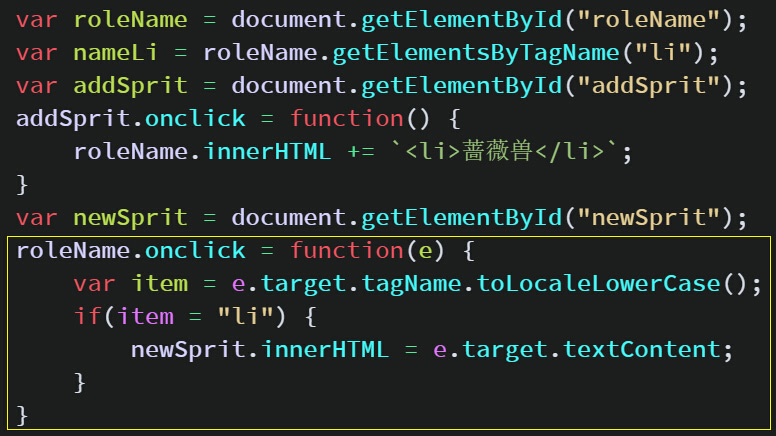
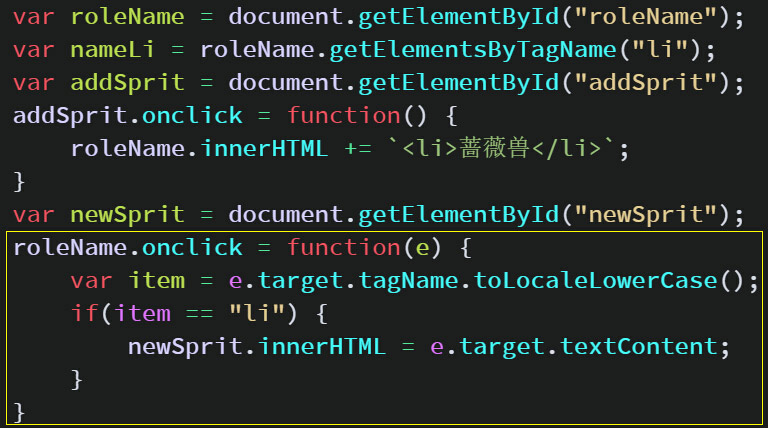
修改了部分代码错误

diff --git a/html-pages/javascript/codeEffect/code-019.html b/html-pages/javascript/codeEffect/code-019.html
@@ -47,7 +47,7 @@
 		var newSprit = document.getElementById("newSprit");
 		roleName.onclick = function(e) {
 			var item = e.target.tagName.toLocaleLowerCase();
-			if(item = "li") {
+			if(item == "li") {
 				newSprit.innerHTML = e.target.textContent;
 			}
 		}
